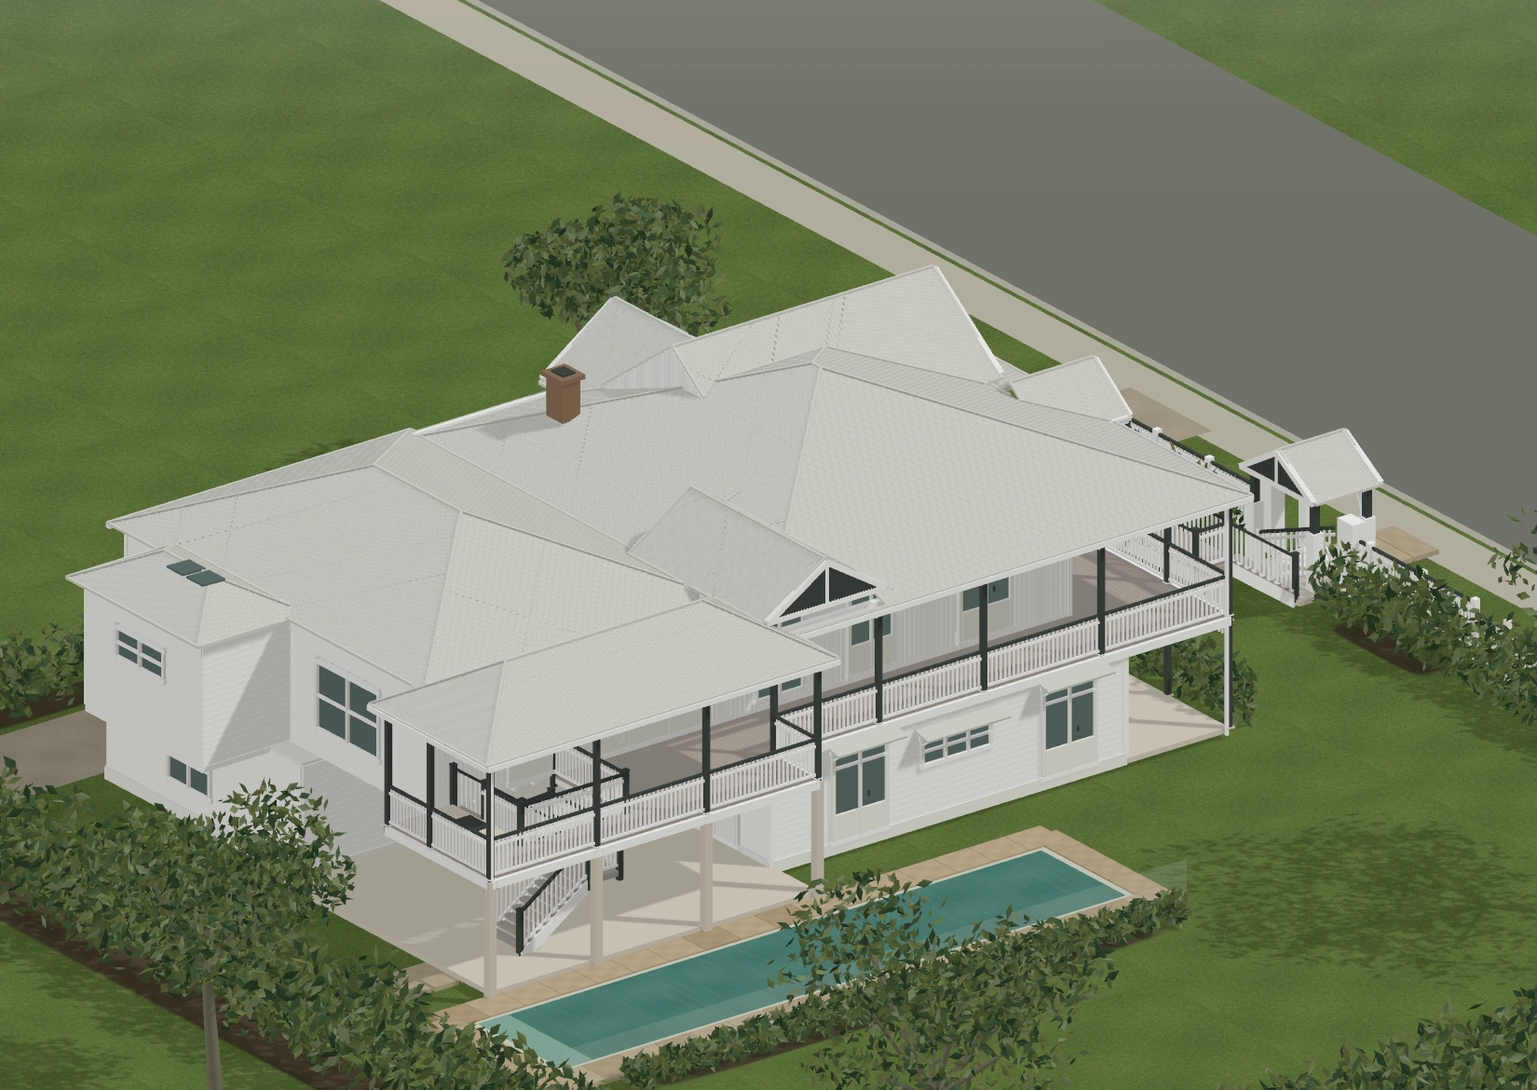
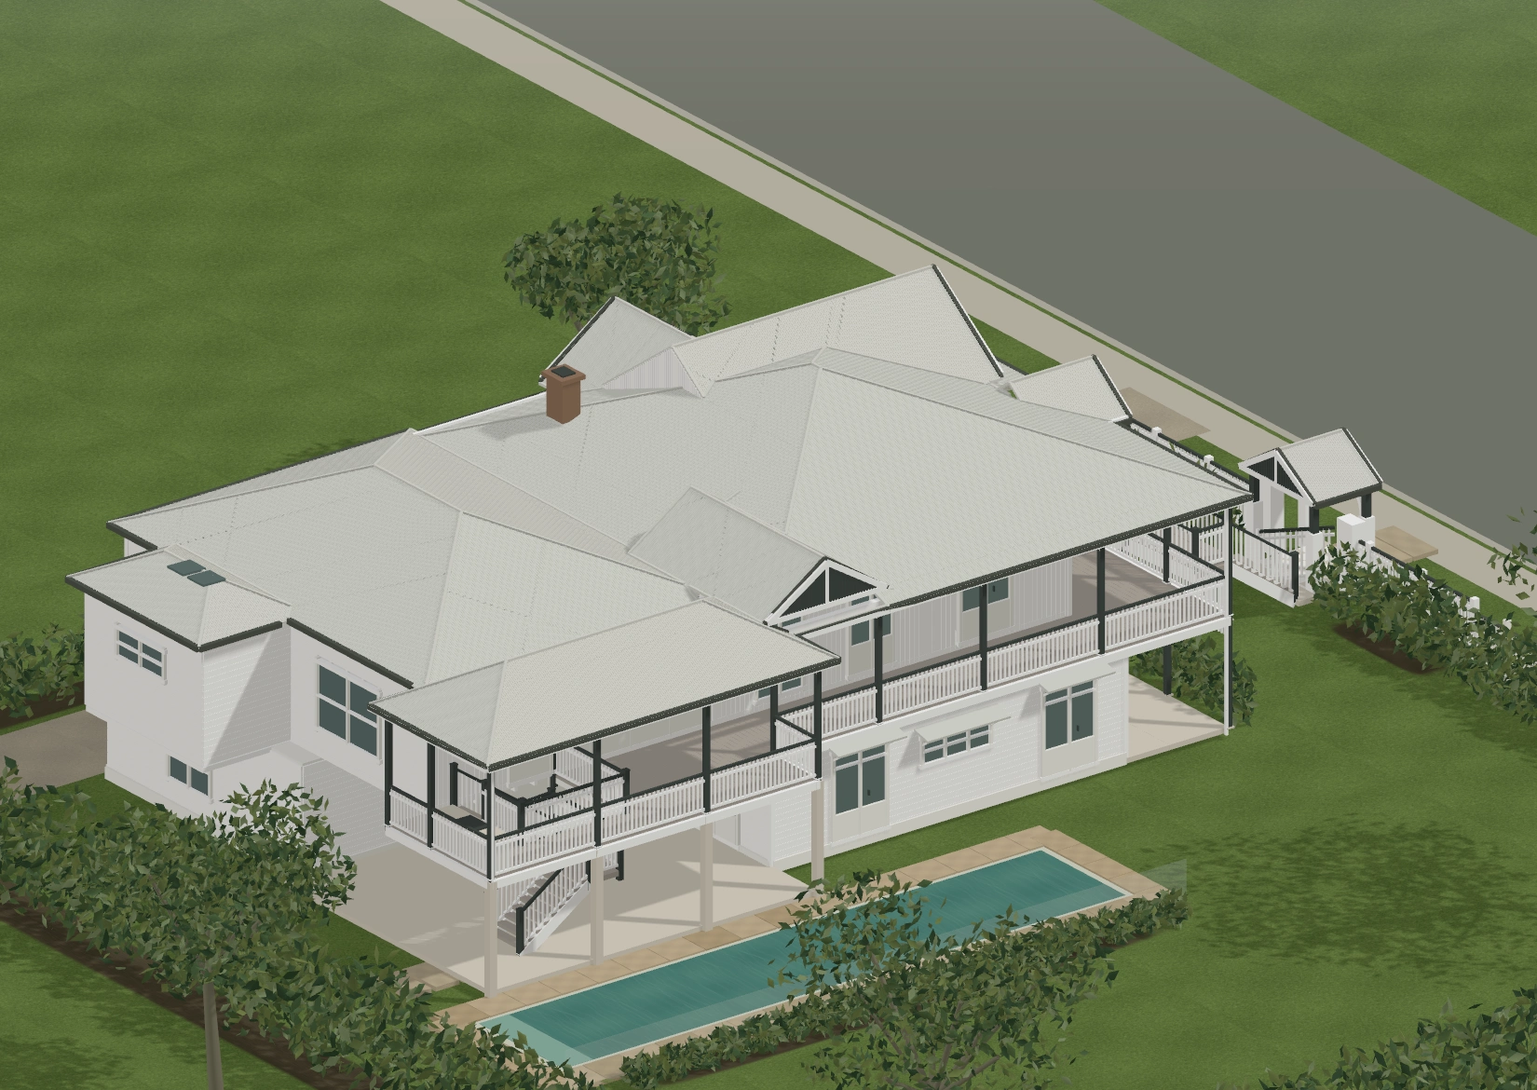
Animate Croyde exterior works and refine roof edging

diff --git a/src/three/CroydeLandscape.tsx b/src/three/CroydeLandscape.tsx
@@ -1,4 +1,6 @@
 import { useEffect, useLayoutEffect, useMemo, useRef } from 'react'
+import type { MutableRefObject, ReactNode } from 'react'
+import { useFrame } from '@react-three/fiber'
 import * as THREE from 'three'
 import { FRAME_BOUNDS } from './frameMembers'
 
@@ -14,7 +16,7 @@ const GARDEN_TREES = [
  * pool beside the long verandah, open side lawn, driveway and planted edges.
  * Extents and levels are approximate, not a survey of the property.
  * All textures are generated locally; the live scene and stills use the same
- * seeded planting. Leaves, branches and paving each share one draw call. */
+ * seeded planting. Each planting, paving or fence batch shares one draw call. */
 function random(seed: number) {
   return () => {
     seed = (Math.imul(1664525, seed) + 1013904223) | 0
@@ -117,13 +119,34 @@ function groundMask() {
 }
 
 type Instance = { p: [number, number, number]; s: [number, number, number]; r?: [number, number, number]; color: string }
-function Instances({ name, items, geometry, material, shadows = true }: {
-  name: string; items: Instance[]; geometry: THREE.BufferGeometry; material: THREE.Material; shadows?: boolean
+type BuildSchedule = { progress: MutableRefObject<number>; start: number; end: number; axis: 'x' | 'y' | 'z' }
+
+/** World-space pivot keeps a new surface anchored while it is laid out.
+ * Driven by the same scroll ref as the house, including when scrolling back. */
+function Constructed({ name, build, anchor, children }: {
+  name: string; build: BuildSchedule; anchor: number; children: ReactNode
+}) {
+  const ref = useRef<THREE.Group>(null)
+  useFrame(() => {
+    const t = THREE.MathUtils.smoothstep(build.progress.current, build.start, build.end)
+    const group = ref.current!
+    group.visible = t > 0.001
+    group.scale[build.axis] = Math.max(t, 0.00001)
+    group.position[build.axis] = anchor * (1 - t)
+  })
+  return <group ref={ref} name={name} visible={false}>{children}</group>
+}
+
+function Instances({ name, items, geometry, material, shadows = true, build }: {
+  name: string; items: Instance[]; geometry: THREE.BufferGeometry; material: THREE.Material; shadows?: boolean; build?: BuildSchedule
 }) {
   const ref = useRef<THREE.InstancedMesh>(null)
+  const animated = !!build
+  const last = useRef(-1)
+  const object = useMemo(() => new THREE.Object3D(), [])
   useLayoutEffect(() => {
     const mesh = ref.current!
-    const object = new THREE.Object3D(), color = new THREE.Color()
+    const color = new THREE.Color()
     items.forEach((item, i) => {
       object.position.set(...item.p)
       object.scale.set(...item.s)
@@ -135,13 +158,43 @@ function Instances({ name, items, geometry, material, shadows = true }: {
     mesh.instanceMatrix.needsUpdate = true
     if (mesh.instanceColor) mesh.instanceColor.needsUpdate = true
     mesh.computeBoundingSphere()
-  }, [items])
+    mesh.visible = !animated
+    last.current = -1
+  }, [items, object, animated])
+  useFrame(() => {
+    if (!build) return
+    const p = THREE.MathUtils.clamp(build.progress.current, build.start, build.end)
+    if (p === last.current) return
+    last.current = p
+    const mesh = ref.current!, duration = build.end - build.start
+    mesh.visible = p > build.start
+    items.forEach((item, i) => {
+      // The fence grows along its frontage; posts and rails at the same
+      // position appear together. Paving is laid one slab after another.
+      const order = name === 'croyde-boundary-fence'
+        ? THREE.MathUtils.clamp((item.p[0] + 27.5) / 20.2, 0, 1)
+        : i / Math.max(1, items.length - 1)
+      const start = build.start + duration * 0.65 * order
+      const t = THREE.MathUtils.smoothstep(p, start, start + duration * 0.35)
+      object.position.set(...item.p)
+      object.scale.set(...item.s)
+      object.rotation.set(...(item.r ?? [0, 0, 0]))
+      const full = object.scale[build.axis]
+      object.scale[build.axis] = Math.max(full * t, 0.00001)
+      if (t <= 0.001) object.scale.setScalar(1e-8)
+      object.position[build.axis] -= full * (1 - t) / 2
+      object.updateMatrix()
+      mesh.setMatrixAt(i, object.matrix)
+    })
+    mesh.instanceMatrix.needsUpdate = true
+  })
   return <instancedMesh ref={ref} name={name} args={[geometry, material, items.length]} castShadow={shadows} receiveShadow />
 }
 
 function planting() {
   const rng = random(417)
-  const leaves: Instance[] = [], branches: Instance[] = [], paving: Instance[] = [], fence: Instance[] = []
+  const leaves: Instance[] = [], branches: Instance[] = [], paths: Instance[] = [], coping: Instance[] = [], fence: Instance[] = [], newPlanting: Instance[] = []
+  let foliage = leaves
   const greens = ['#4d633a', '#657544', '#77864c', '#344d32', '#829369', '#526d46']
   // Each plant has an irregular silhouette of individual leaves, with no
   // opaque spheres inside the canopy. The house remains visible between them.
@@ -150,7 +203,7 @@ function planting() {
       const a = rng() * Math.PI * 2, v = rng() * 2 - 1
       const radial = Math.sqrt(1 - v * v), distance = Math.cbrt(rng())
       const scale = leafSize * (0.65 + rng() * 0.65)
-      leaves.push({
+      foliage.push({
         p: [x + Math.cos(a) * radial * distance * rx, groundHeight(x) + y + v * distance * ry, z + Math.sin(a) * radial * distance * rz],
         s: [scale * 0.5, scale, scale],
         r: [rng() * Math.PI, rng() * Math.PI * 2, rng() * Math.PI],
@@ -194,28 +247,29 @@ function planting() {
   }
   // The clipped hedge beside the pool, and magnolia-like planting beneath
   // the front verandah, both visible in the garden/street photographs.
+  foliage = newPlanting
   for (let z = -14; z < 2.5; z += 0.9) hedge(-15.2, z, 0.75, 0.55)
   for (let x = -6.6; x < 6.5; x += 0.9) {
     if (x > -2.4 && x < 1) continue
     hedge(x, 10.7, 1.65, 0.62)
   }
   // Stone slabs align to the existing gate and the foot of the front stair.
-  for (let i = 0; i < 6; i++) paving.push({ p: [-0.7, -0.04, 16.4 + i * 0.79], s: [1.8, 0.12, 0.75], color: i % 2 ? '#e6e2d7' : '#eeeade' })
+  for (let i = 0; i < 6; i++) paths.push({ p: [-0.7, -0.04, 16.4 + i * 0.79], s: [1.8, 0.12, 0.75], color: i % 2 ? '#e6e2d7' : '#eeeade' })
   // A short garden path continues from the rear stair to the open lawn.
-  for (let i = 0; i < 4; i++) paving.push({ p: [-7.05, -0.04, -12.55 - i * 0.85], s: [1.35, 0.12, 0.72], color: '#e6e2d7' })
+  for (let i = 0; i < 4; i++) paths.push({ p: [-7.05, -0.04, -12.55 - i * 0.85], s: [1.35, 0.12, 0.72], color: '#e6e2d7' })
   // Continue the street fence across the lawn, retaining the existing gate.
   for (let x = -27.5; x < -7.3; x += 0.16) fence.push({ p: [x, 0.76 + groundHeight(x), 17.5], s: [0.065, 1.18, 0.065], color: '#f7f6ee' })
   for (let x = -27.5; x < -7.3; x += 2.1) fence.push({ p: [x, 0.81 + groundHeight(x), 17.5], s: [0.15, 1.62, 0.15], color: '#f7f6ee' })
   for (let x = -27; x < -7.3; x += 1) for (const y of [0.3, 1.34]) fence.push({ p: [x, y + groundHeight(x), 17.5], s: [1.04, 0.06, 0.08], color: y > 1 ? '#51594c' : '#f7f6ee' })
   // Individual terrace tiles keep the stone from reading as a flat block.
   for (let z = -15.2; z < 2.4; z += 1.1) {
-    for (const x of [-14.15, -9.45]) paving.push({ p: [x, -0.025, z], s: [1, 0.14, 1.075], color: rng() > 0.4 ? '#f4eada' : '#e2d5be' })
+    for (const x of [-14.15, -9.45]) coping.push({ p: [x, -0.025, z], s: [1, 0.14, 1.075], color: rng() > 0.4 ? '#f4eada' : '#e2d5be' })
   }
-  for (const z of [-15.75, 2.7]) for (let x = -14.1; x < -9; x += 1.05) paving.push({ p: [x, -0.025, z], s: [1.025, 0.14, 0.8], color: '#eee3d0' })
-  return { leaves, branches, paving, fence }
+  for (const z of [-15.75, 2.7]) for (let x = -14.1; x < -9; x += 1.05) coping.push({ p: [x, -0.025, z], s: [1.025, 0.14, 0.8], color: '#eee3d0' })
+  return { leaves, branches, paths, coping, fence, newPlanting }
 }
 
-export function CroydeLandscape() {
+export function CroydeLandscape({ progress }: { progress: MutableRefObject<number> }) {
   const resources = useMemo(() => {
     const lawn = surface('lawn'), stone = surface('stone'), soil = surface('soil'), gravel = surface('gravel'), water = surface('water'), mask = groundMask()
     const terrain = new THREE.PlaneGeometry(200, 200, 50, 50)
@@ -259,38 +313,56 @@ export function CroydeLandscape() {
       <mesh geometry={resources.street} receiveShadow>
         <meshStandardMaterial color="#7a7d73" roughness={1} />
       </mesh>
-      {[[ -5.3, 16.4, 4.4, 1.3 ], [4.7, 16.4, 4.4, 1.3], [11.8, -1, 1.4, 37], [-8, -19.6, 40, 2], [-15.2, -6, 1.3, 18]].map(([x, z, w, d], i) => (
+      {[[ -5.3, 16.4, 4.4, 1.3 ], [4.7, 16.4, 4.4, 1.3], [11.8, -1, 1.4, 37], [-8, -19.6, 40, 2]].map(([x, z, w, d], i) => (
         <mesh key={i} rotation={[-Math.PI / 2, 0, 0]} position={[x, groundHeight(x) + 0.02, z]} receiveShadow>
           <planeGeometry args={[w, d]} />
           <meshStandardMaterial map={resources.soil} alphaMap={resources.mask} transparent depthWrite={false} roughness={1} />
         </mesh>
       ))}
       {/* Exposed-aggregate driveway down the narrow side of the house. */}
-      <mesh name="croyde-driveway" rotation={[-Math.PI / 2, 0, 0]} position={[9.25, -0.09, 0.8]} receiveShadow>
-        <planeGeometry args={[3.3, 40]} />
-        <meshStandardMaterial map={resources.gravel} bumpMap={resources.gravel} bumpScale={0.035} roughness={1} />
-      </mesh>
+      <Constructed name="croyde-driveway-build" build={{ progress, start: 0.78, end: 0.9, axis: 'z' }} anchor={20.8}>
+        <mesh name="croyde-driveway" rotation={[-Math.PI / 2, 0, 0]} position={[9.25, -0.09, 0.8]} receiveShadow>
+          <planeGeometry args={[3.3, 40]} />
+          <meshStandardMaterial map={resources.gravel} bumpMap={resources.gravel} bumpScale={0.035} roughness={1} />
+        </mesh>
+      </Constructed>
       {/* Long garden-side pool with pale coping and restrained green water. */}
-      <mesh name="croyde-pool-basin" position={[-11.8, -0.18, -6.5]} receiveShadow>
-        <boxGeometry args={[3.8, 0.36, 17.6]} />
-        <meshStandardMaterial color="#d5d8c7" roughness={0.85} />
-      </mesh>
-      <mesh name="croyde-pool-water" rotation={[-Math.PI / 2, 0, 0]} position={[-11.8, 0.015, -6.5]}>
-        <planeGeometry args={[3.4, 17.2]} />
-        <meshStandardMaterial map={resources.water} roughness={0.22} metalness={0.08} />
-      </mesh>
-      <mesh rotation={[-Math.PI / 2, 0, 0]} position={[-11.8, 0.025, -14.65]}>
-        <planeGeometry args={[3.4, 0.9]} />
-        <meshStandardMaterial color="#8bb3a5" roughness={0.45} />
-      </mesh>
-      <mesh name="croyde-pool-guard" position={[-14.75, 0.61, -6.5]}>
-        <boxGeometry args={[0.018, 1.15, 19]} />
-        <meshStandardMaterial color="#d5e4db" transparent opacity={0.14} depthWrite={false} roughness={0.25} />
-      </mesh>
+      <Constructed name="croyde-pool-shell-build" build={{ progress, start: 0.64, end: 0.77, axis: 'z' }} anchor={-15.3}>
+        <mesh name="croyde-pool-basin" position={[-11.8, -0.18, -6.5]} receiveShadow>
+          <boxGeometry args={[3.8, 0.36, 17.6]} />
+          <meshStandardMaterial color="#d5d8c7" roughness={0.85} />
+        </mesh>
+      </Constructed>
+      <Constructed name="croyde-pool-water-build" build={{ progress, start: 0.95, end: 1, axis: 'z' }} anchor={-15.1}>
+        <mesh name="croyde-pool-water" rotation={[-Math.PI / 2, 0, 0]} position={[-11.8, 0.015, -6.5]}>
+          <planeGeometry args={[3.4, 17.2]} />
+          <meshStandardMaterial map={resources.water} roughness={0.22} metalness={0.08} />
+        </mesh>
+        <mesh rotation={[-Math.PI / 2, 0, 0]} position={[-11.8, 0.025, -14.65]}>
+          <planeGeometry args={[3.4, 0.9]} />
+          <meshStandardMaterial color="#8bb3a5" roughness={0.45} />
+        </mesh>
+      </Constructed>
+      <Constructed name="croyde-pool-guard-build" build={{ progress, start: 0.9, end: 0.97, axis: 'y' }} anchor={0.035}>
+        <mesh name="croyde-pool-guard" position={[-14.75, 0.61, -6.5]}>
+          <boxGeometry args={[0.018, 1.15, 19]} />
+          <meshStandardMaterial color="#d5e4db" transparent opacity={0.14} depthWrite={false} roughness={0.25} />
+        </mesh>
+      </Constructed>
       <Instances name="croyde-foliage" items={items.leaves} geometry={resources.leaf} material={resources.leafMat} />
       <Instances name="croyde-branches" items={items.branches} geometry={resources.branch} material={resources.woodMat} />
-      <Instances name="croyde-path" items={items.paving} geometry={resources.box} material={resources.stoneMat} shadows={false} />
-      <Instances name="croyde-boundary-fence" items={items.fence} geometry={resources.box} material={resources.woodMat} />
+      <Constructed name="croyde-planting-build" build={{ progress, start: 0.88, end: 0.99, axis: 'y' }} anchor={-0.14}>
+        <Instances name="croyde-new-planting" items={items.newPlanting} geometry={resources.leaf} material={resources.leafMat} />
+      </Constructed>
+      <Constructed name="croyde-pool-bed-build" build={{ progress, start: 0.87, end: 0.93, axis: 'z' }} anchor={-15}>
+        <mesh rotation={[-Math.PI / 2, 0, 0]} position={[-15.2, -0.12, -6]} receiveShadow>
+          <planeGeometry args={[1.3, 18]} />
+          <meshStandardMaterial map={resources.soil} alphaMap={resources.mask} transparent depthWrite={false} roughness={1} />
+        </mesh>
+      </Constructed>
+      <Instances name="croyde-path" items={items.paths} geometry={resources.box} material={resources.stoneMat} shadows={false} build={{ progress, start: 0.88, end: 0.98, axis: 'z' }} />
+      <Instances name="croyde-pool-coping" items={items.coping} geometry={resources.box} material={resources.stoneMat} shadows={false} build={{ progress, start: 0.77, end: 0.88, axis: 'z' }} />
+      <Instances name="croyde-boundary-fence" items={items.fence} geometry={resources.box} material={resources.woodMat} build={{ progress, start: 0.89, end: 0.985, axis: 'y' }} />
     </group>
   )
 }

diff --git a/src/three/frameMembers.ts b/src/three/frameMembers.ts
@@ -6,7 +6,7 @@
  * The animation explains a build sequence, not the renovation's chronology.
  * Street is +z; the long garden elevation is -x. Approximate metre units.
  */
-export type MaterialKey = 'frame' | 'clad' | 'trim' | 'joinery' | 'roof' | 'glass' | 'deck' | 'accent' | 'ground' | 'brick'
+export type MaterialKey = 'frame' | 'clad' | 'trim' | 'joinery' | 'roof' | 'roofTrim' | 'glass' | 'deck' | 'accent' | 'ground' | 'brick'
 export type Member = {
   p: [number,number,number]; s: [number,number,number]
   rx:number; ry?:number; rz?:number; at:number; stage:0|1|2|3
@@ -315,7 +315,7 @@ function roofAt(x:number,z:number) {
   return {h,face:best}
 }
 const roofHeight=(x:number,z:number)=>roofAt(x,z).h
-const roofEdges=new Map<string,[V3,V3]>()
+const roofEdges=new Map<string,{a:V3;b:V3;exposed:boolean}>()
 roofs.forEach((f,index)=>{
   let pieces=[f.poly]
   roofs.forEach((g,j)=>{
@@ -324,6 +324,7 @@ roofs.forEach((f,index)=>{
     if(upper.length>=3&&Math.abs(area(upper))>0.0001)pieces=pieces.flatMap(p=>difference(p,upper))
   })
   pieces.forEach(poly=>{
+    const gateRoof=f.poly.every(p=>p[1]>15)
     const alongX=Math.abs(f.a)>0.001,cross=alongX?1:0,along=alongX?0:1
     const lo=Math.min(...poly.map(p=>p[cross])),hi=Math.max(...poly.map(p=>p[cross]))
     const n=Math.max(1,Math.ceil((hi-lo)/0.12)),step=(hi-lo)/n
@@ -334,8 +335,8 @@ roofs.forEach((f,index)=>{
       const a=Math.min(...hits),b=Math.max(...hits),v=(a+b)/2
       const x=alongX?v:u,z=alongX?u:v,y=f.a*x+f.b*z+f.c
       const slope=alongX?f.a:f.b,len=(b-a)*Math.sqrt(1+slope*slope),rot=alongX?{rz:Math.atan(slope)}:{rx:-Math.atan(slope)}
-      box([x,y,z],alongX?[len,0.045,step+0.002]:[step+0.002,0.045,len],'roof',0.49+i/n*0.12,2,{...rot,lines:false})
-      box([x,y+0.032,z],alongX?[len,0.013,0.012]:[0.012,0.013,len],'roof',0.51+i/n*0.12,2,{...rot,lines:false})
+      box([x,y,z],alongX?[len,0.045,step+0.002]:[step+0.002,0.045,len],'roof',gateRoof?0.94+i/n*0.012:0.49+i/n*0.12,gateRoof?3:2,{...rot,lines:false})
+      box([x,y+0.032,z],alongX?[len,0.013,0.012]:[0.012,0.013,len],'roof',gateRoof?0.945+i/n*0.01:0.51+i/n*0.12,gateRoof?3:2,{...rot,lines:false})
     }
     poly.forEach((p,j)=>{
       const q=poly[(j+1)%poly.length],a:V3=[p[0],f.a*p[0]+f.b*p[1]+f.c+0.035,p[1]],b:V3=[q[0],f.a*q[0]+f.b*q[1]+f.c+0.035,q[1]]
@@ -347,21 +348,34 @@ roofs.forEach((f,index)=>{
       const l=roofAt(mx-dz*0.02,mz+dx*0.02).face,r=roofAt(mx+dz*0.02,mz-dx*0.02).face
       if(l&&r&&Math.abs(l.a-r.a)<0.001&&Math.abs(l.b-r.b)<0.001&&Math.abs(l.c-r.c)<0.001)return
       const key=[a,b].map(v=>v.map(n=>n.toFixed(2)).join(',')).sort().join('/')
-      roofEdges.set(key,[a,b])
+      // Dark gutters and barge flashings belong at the exposed perimeter.
+      // Internal hips/ridges/valleys retain the pale roof-metal capping.
+      const gableEnd=[8.67,10.85,16.5,18.5].some(z=>Math.abs(a[2]-z)<0.02&&Math.abs(b[2]-z)<0.02)
+        || [7.55,-7.6].some(x=>Math.abs(a[0]-x)<0.02&&Math.abs(b[0]-x)<0.02)
+      const exposed=!l||!r||(gableEnd&&Math.abs(a[1]-b[1])>0.02)
+      roofEdges.set(key,{a,b,exposed})
     })
   })
 })
-roofEdges.forEach(([a,b])=>beam(a,b,0.07,'roof',0.65,2))
+roofEdges.forEach(({a,b,exposed})=>{
+  const gateRoof=a[2]>15&&b[2]>15
+  if(exposed) {
+    const eave=Math.abs(a[1]-b[1])<0.02
+    const offset=eave?-0.045:0.015
+    beam([a[0],a[1]+offset,a[2]],[b[0],b[1]+offset,b[2]],eave?0.14:0.09,'roofTrim',gateRoof?0.95:0.66,gateRoof?3:2)
+  } else beam(a,b,0.07,'roof',gateRoof?0.95:0.65,gateRoof?3:2)
+})
 function gableDetail(axis:'x'|'z',fixed:number,centre:number,half:number,base:number,peak:number) {
   const point=(u:number,y:number):V3=>axis==='z'?[u,y,fixed]:[fixed,y,u]
+  const gate=axis==='z'&&fixed>15
   for(let u=centre-half+0.06;u<centre+half;u+=0.085) {
     const top=peak-Math.abs(u-centre)/half*(peak-base)
-    if(top-base>0.04)box(point(u,(base+top)/2),axis==='z'?[0.055,top-base,0.07]:[0.07,top-base,0.055],'accent',0.87,3,{lines:false})
+    if(top-base>0.04)box(point(u,(base+top)/2),axis==='z'?[0.055,top-base,0.07]:[0.07,top-base,0.055],'accent',gate?0.95:0.87,3,{lines:false})
   }
-  beam(point(centre-half,base),point(centre,peak),0.15,'trim',0.89)
-  beam(point(centre,peak),point(centre+half,base),0.15,'trim',0.89)
-  beam(point(centre-half,base),point(centre+half,base),0.13,'trim',0.89)
-  beam(point(centre,base),point(centre,peak),0.1,'trim',0.89)
+  beam(point(centre-half,base),point(centre,peak),0.15,'trim',gate?0.95:0.89)
+  beam(point(centre,peak),point(centre+half,base),0.15,'trim',gate?0.95:0.89)
+  beam(point(centre-half,base),point(centre+half,base),0.13,'trim',gate?0.95:0.89)
+  beam(point(centre,base),point(centre,peak),0.1,'trim',gate?0.95:0.89)
 }
 gableDetail('z',8.71,2.875,2.67,7.26,9.13)
 gableDetail('x',7.59,2.5,2.19,6.79,8.3)
@@ -462,6 +476,6 @@ export const FRAME_STAGE_STARTS=[0,0.14,0.48,0.72] as const
 export const FRAME_STAGES=[
   {label:'Drawings',note:'Set out Croyde’s two levels, wraparound verandah and garden terrace.'},
   {label:'Frame',note:'Floors, walls and verandah posts establish the shape of the home.'},
-  {label:'Roof',note:'Layered gables meet the long verandah and sheltered rear pavilion.'},
-  {label:'Finish',note:'White weatherboards, fine balustrades and the gabled entrance complete the house.'},
+  {label:'Roof',note:'Metal roofing, gutters and edging complete the layered gables.'},
+  {label:'Finish',note:'Cladding and verandah details finish the house. Paths, fencing and the pool complete the grounds.'},
 ] as const

diff --git a/src/three/TimberFrame.tsx b/src/three/TimberFrame.tsx
@@ -21,6 +21,7 @@ const MATERIALS: Record<MaterialKey, { color: string; roughness: number }> = {
   joinery: { color: '#f5f4ee', roughness: 0.78 },
   deck: { color: '#b2aaa0', roughness: 0.9 },
   roof: { color: '#e5e6df', roughness: 0.72 },
+  roofTrim: { color: '#53594f', roughness: 0.65 },
   glass: { color: '#627572', roughness: 0.3 },
   accent: { color: '#414945', roughness: 0.82 },
   ground: { color: '#dcd5c6', roughness: 0.95 },
@@ -140,6 +141,10 @@ function Building({ progress }: { progress: React.MutableRefObject<number> }) {
       const mat = mats.current[k]
       if (!mat) continue
       mat.opacity = solidOpacity
+      // Invisible drafting-stage solids must not leave phantom shadows on
+      // the lawn. The line drawing itself does not cast a building shadow.
+      const mesh = meshes.current[k]
+      if (mesh) mesh.castShadow = k !== 'glass' && solidOpacity > 0.01
       // Exposed bearers and joist ends receive the white finish along with the
       // house; the timber stage remains legible earlier in the sequence.
       if (k === 'frame') mat.color.copy(framePaint.bare).lerp(framePaint.finished, smoothstep(0.74, 0.92, p))
@@ -192,6 +197,9 @@ function Building({ progress }: { progress: React.MutableRefObject<number> }) {
       scratch.origin.applyQuaternion(quats[i])
 
       scratch.scale.set(Math.max(sx, 1e-5), Math.max(sy, 1e-5), Math.max(sz, 1e-5))
+      // A member shortened on only one axis still has a broad end face.
+      // Collapse all axes before it starts, otherwise that face casts a line.
+      if (t <= 0.001) scratch.scale.setScalar(1e-8)
       scratch.position.set(m.p[0], m.p[1], m.p[2]).add(scratch.origin)
       scratch.matrix.compose(scratch.position, quats[i], scratch.scale)
 
@@ -241,7 +249,7 @@ function Building({ progress }: { progress: React.MutableRefObject<number> }) {
             ref={(el) => (mats.current[key] = el)}
             color={MATERIALS[key === 'corbel' ? 'trim' : key].color}
             roughness={MATERIALS[key === 'corbel' ? 'trim' : key].roughness}
-            metalness={key === 'roof' ? 0.08 : 0}
+            metalness={key === 'roof' || key === 'roofTrim' ? 0.08 : 0}
             transparent
             opacity={0}
           />
@@ -318,7 +326,7 @@ export default function TimberFrame({
 
       <Daylight shadows={shadows} />
 
-      <CroydeLandscape />
+      <CroydeLandscape progress={progress} />
       <Building progress={progress} />
     </Canvas>
   )

diff --git a/README.md b/README.md
@@ -1514,7 +1514,7 @@ the actual renovation sequence. Hidden rear openings and construction are
 interpreted from the available views and floor plan.
 
 `TimberFrame.tsx` fits each view from the transformed geometry, draws members as
-ten instanced box-material groups plus one shared curved-bracket extrusion,
+eleven instanced box-material groups plus one shared curved-bracket extrusion,
 and excludes unoutlined roof strips from the CPU drafting-line work.
 Shadow resolution is reduced on narrow canvases. Reduced
 motion and unavailable WebGL use matching WebP renders:
@@ -1564,6 +1564,23 @@ outer edges fade into the page. The house stays large enough to read on phones.
 Both still images are regenerated from the live scene for reduced motion and
 unavailable WebGL. The scroll sequence, view controls and separate Approach model
 remain unchanged.
+
+#### Exterior build sequence and roof edging, 6 November 2026
+
+The landscape now receives the house's scroll progress. At the start, only the
+terrain, established planting and public street/footpath remain. The pool shell
+appears during the later roof stage; terrace stones, driveway, paths, glass guard,
+new ornamental planting and the fence extension assemble through Finish. Pool
+water appears last. Paving and fence members grow in a staggered sequence, while
+the house's existing gate and fence retain their member-based assembly. Scrolling
+back reverses all of these additions, including their shadows.
+
+Roof perimeter edges use the darker gutter/barge-flashing colour visible in the
+exterior photos. Pale ridge and valley caps and white fascia boards remain.
+Perimeter edges are derived from the intersected roof faces so strips stop at
+real junctions rather than running across the roof sheets. Both finished stills
+are regenerated after this change. The sequence is illustrative, not a record of
+the actual construction schedule.
 
 ### Temporary heritage explorer concept
 
